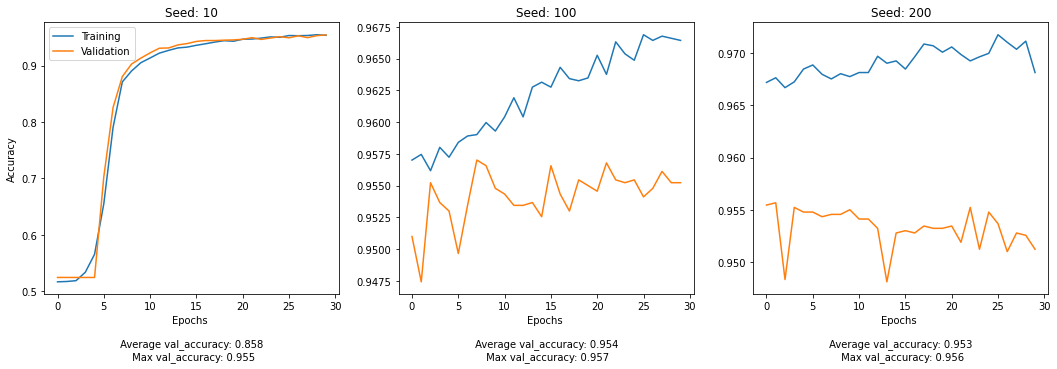
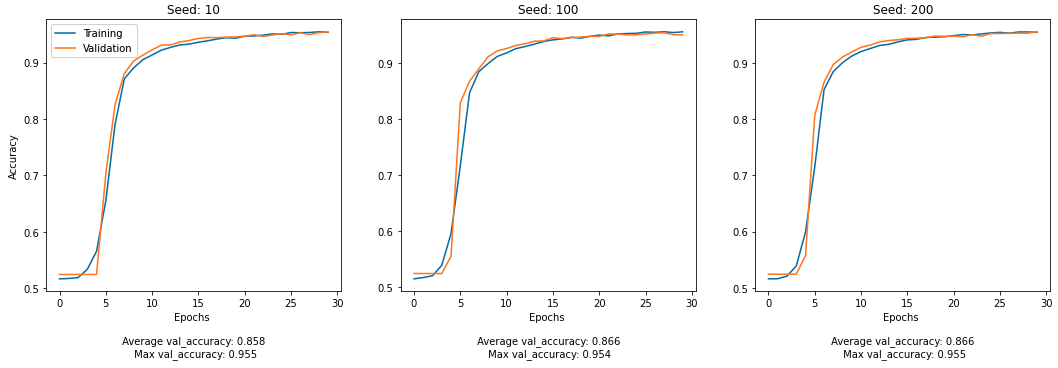
edits to model functions

diff --git a/_posts/2021-05-16-blog3.md b/_posts/2021-05-16-blog3.md
@@ -368,22 +368,39 @@ title_input = keras.Input(
 Let's design the layers of our deep neural network:
 
 ```python
-vocab_size = 2000 # the number of initial features as input
-embed_size = 5    # the dimension of each word embedding
+# Let's make a function to create the layers of a NN using a single predictor
 
-# creating the input title vector
-vectorize_title = create_vectorized_layer(train, 'title', vocab_size)
-title_features = vectorize_title(title_input)
+def make_layers_one(input_var, vocab_size = 2000, embed_size = 5):
 
-# creating the layers of the neural network
-title_features = layers.Embedding(vocab_size, embed_size, name = 'embedding')(title_features)
-title_features = layers.Dropout(0.25)(title_features)
-title_features = layers.GlobalAveragePooling1D()(title_features)
-title_features = layers.Dropout(0.25)(title_features)
-title_features = layers.Dense(50, activation='sigmoid')(title_features)
-title_features = layers.Dense(50, activation='sigmoid')(title_features)
+  '''
+  PURPOSE
+  -----
+  This function makes the layers of a model which uses a single predictor variable
 
-output = layers.Dense(2, name = "fake")(title_features) # the output layer 
+  INPUT
+  -----
+  input_var: the Keras Input Object of the predictor variable - text/title
+  vocab_size: the number of initial features as input
+  embed_size: the dimension of the word embeddings
+
+  OUTPUT
+  -----
+  returns the layers excluding the output layer
+
+  '''
+
+  vectorize_var = create_vectorized_layer(train, input_var.name, vocab_size)
+  features = vectorize_var(input_var)
+
+  # creating the layers of the neural network
+  features = layers.Embedding(vocab_size, embed_size, name = 'embedding_' + input_var.name)(features)
+  features = layers.Dropout(0.25)(features)
+  features = layers.GlobalAveragePooling1D()(features)
+  features = layers.Dropout(0.25)(features)
+  features = layers.Dense(50, activation='sigmoid')(features)
+  features = layers.Dense(50, activation='sigmoid')(features)
+
+  return features
 ```
 
 &nbsp;
@@ -394,18 +411,37 @@ def make_model(input):
   """
   PURPOSE
   -----
-  This funtion creates a Keras model
+  This funtion creates a Keras model for each of the following scenarios:
+  1. When input is title
+  2. When input is text
+  3. When input is both text and title
 
   INPUT
   -----
-  input: a list of inputs eg. [title_input]
+  input: a list of Keras Inputs eg. [title_input]
 
   OUTPUT
   -----
   model: a neural network ready to train
   """
 
-  # create a model
+  # Model layers for ONLY input 
+  if (len(input) == 1):
+
+    all_layers = make_layers_one(input[0])
+    output = layers.Dense(2, name = "fake")(all_layers) # the output layer 
+
+  # Model layers for both title and text input
+  if len(input) == 2:
+    
+    layers_first_var  = make_layers_one(input[0]) # layers for variable 1
+    layers_second_var = make_layers_one(input[1]) # layers for variable 2
+    main   = layers.concatenate([layers_first_var, layers_second_var], axis = 1) # combine the above layers
+    main   = layers.Dense(50, activation = 'sigmoid')(main) # add another layer
+    output = layers.Dense(2, name = "fake")(main)           # final output layer
+
+  
+  # create a model object
   model = keras.Model(
     inputs  = input,
     outputs = output
@@ -524,7 +560,6 @@ def run_model(seeds, input, epochs = 30):
     ax[0].legend()
 
     idx += 1
-
 ```
 
 &nbsp;
@@ -536,23 +571,12 @@ run_model(seeds, input = [title_input] )
 ```
     
 ![png](/images/m1.png)
-    
-
-## There is an error in the function above, somehow when the seed changes, the function does not refresh the model but trains the existing one further.
-
 
 &nbsp;
 
 > # Model 2: Using `text` to Predict Fake News
 
-### Step 1: Vectorize the `text` Column
-
-```python
-# creating the text vectorizer
-vectorize_text = create_vectorized_layer(train, 'text', 2000)
-```
-
-### Creating the Input
+### Create the Input
 
 ```python
 # create the text input 
@@ -565,31 +589,15 @@ text_input = keras.Input(
 
 &nbsp;
 
-### Step 2: Design the Model
+### Design/Create the Model
 We will use the same model skeleton that we used above. 
 
 ```python
-vocab_size = 2000 # the number of initial features as input
-embed_size = 5  
-
-# creating the input title vector
-vectorize_text = create_vectorized_layer(train, 'text', vocab_size)
-
-# create the layers of the model 
-text_features = vectorize_title(text_input)
-text_features = layers.Embedding(vocab_size, embed_size, name = 'embedding')(text_features)
-text_features = layers.Dropout(0.25)(text_features)
-text_features = layers.GlobalAveragePooling1D()(text_features)
-text_features = layers.Dropout(0.25)(text_features)
-text_features = layers.Dense(50, activation='sigmoid')(text_features)
-text_features = layers.Dense(50, activation='sigmoid')(text_features)
-
-output = layers.Dense(2, name = "fake")(text_features) # the output layer 
+model = make_model([text_input])
 ```
 &nbsp;
 
-### Step 3: Fit & Evaluate Model
-
+### Fit & Evaluate Model
 
 ```python
 run_model(seeds, input = [text_input])
@@ -601,36 +609,7 @@ run_model(seeds, input = [text_input])
 
 > # Model 3: Using both `text` and `title` to Predict Fake News
 
-### Design the Model
-
-```python
-vocab_size = 2000 # the number of initial features as input
-embed_size = 5   
-
-# layers for processing the title input
-title_features = vectorize_title(title_input)
-title_features = layers.Embedding(vocab_size, embed_size, name = 'embedding_title')(title_features)
-title_features = layers.Dropout(0.25)(title_features)
-title_features = layers.GlobalAveragePooling1D()(title_features)
-title_features = layers.Dropout(0.25)(title_features)
-title_features = layers.Dense(50, activation='sigmoid')(title_features)
-title_features = layers.Dense(50, activation='sigmoid')(title_features)
-
-# layers for processing the text input
-text_features = vectorize_title(text_input)
-text_features = layers.Embedding(vocab_size, embed_size, name = 'embedding_text')(text_features)
-text_features = layers.Dropout(0.25)(text_features)
-text_features = layers.GlobalAveragePooling1D()(text_features)
-text_features = layers.Dropout(0.25)(text_features)
-text_features = layers.Dense(50, activation='sigmoid')(text_features)
-text_features = layers.Dense(50, activation='sigmoid')(text_features)
-
-# concatenate the 2 sets of layers into one and get the output
-main = layers.concatenate([title_features, text_features], axis = 1)
-main = layers.Dense(50, activation = 'sigmoid')(main)
-output = layers.Dense(2, name = "fake")(main)
-```
-
+### Design/Create the Model
 
 ```python
 model = make_model([title_input, text_input])
@@ -684,7 +663,6 @@ model.summary()
     Non-trainable params: 0
     __________________________________________________________________________________________________
 
-
 &nbsp;
 
 ### Fit & Evaluate Model
@@ -699,7 +677,7 @@ run_model(seeds, input = [title_input, text_input])
 
 # § Which Model Wins?
 
-After analyzing the figures, we can deduce that Model3 has the highest prediction accuracy on validation data!
+After analyzing the figures, we can deduce that Model 3 has the highest prediction accuracy on validation data with seed 200!
 
 Let's see if it is effective on the unseen testing as well.
 
@@ -776,7 +754,6 @@ test.head()
 &nbsp;
 
 
-
 ```python
 # make the tensorflow dataset
 x = test[['title', 'text']]
@@ -795,8 +772,9 @@ model.evaluate(test)
 
     [0.05042735114693642, 0.984542727470398]
 
-Great! The model predicts unseen fake news items with 98% prediction accuracy.
+> Great! The model predicts unseen fake news items with ~ 98% prediction accuracy.
 
+&nbsp;
 
 # § Visualizing Embeddings 
 
